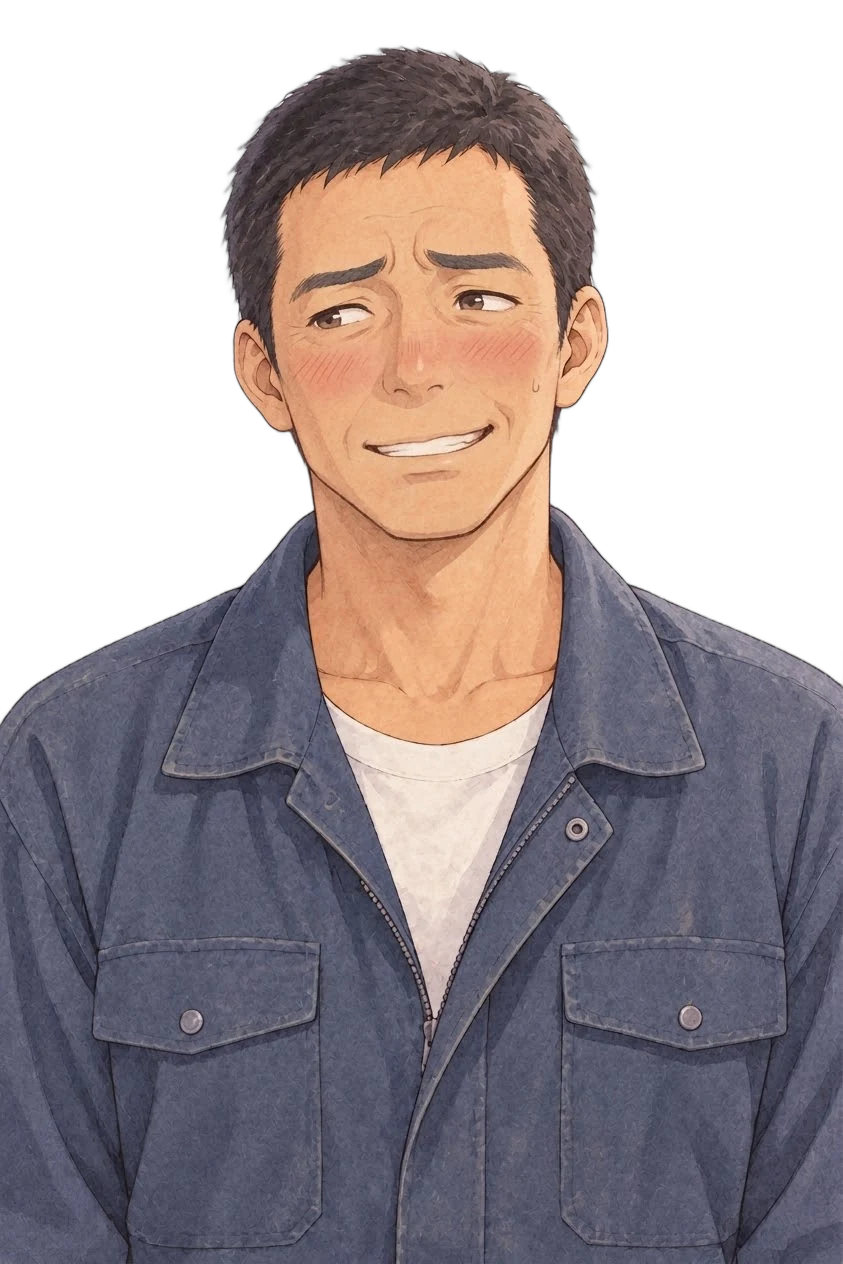
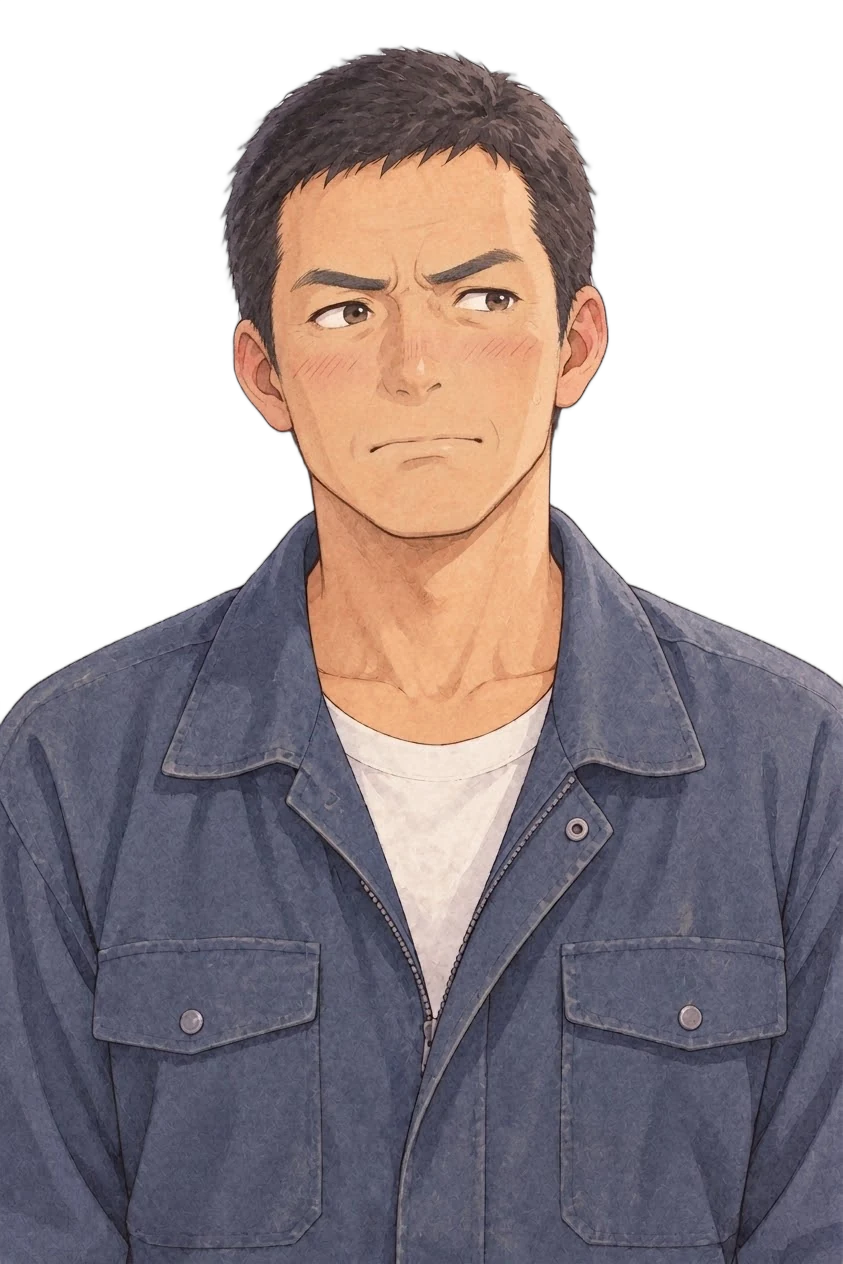
ゆうま・写しのゆうま・写しのひなのの表情違いを入れ、写しのきよしの照れを作り直した
Claude-Session: https://claude.ai/code/session_017E8gEEAXcva2Z7J4GYQkBJ

diff --git a/src/data/assets.ts b/src/data/assets.ts
@@ -1546,11 +1546,73 @@ export const ASSETS: AssetEntry[] = [
     '写しのきよし',
     'shy',
     '照れ',
-    'short cropped black hair, sun-tanned face, faded navy work jacket over a white undershirt',
-    'embarrassed, light blush on the cheeks, eyes looking aside, a small awkward smile',
+    'short cropped black hair, sun-tanned face, stern brows, faded navy work jacket over a white undershirt',
+    'gruffly hiding his embarrassment: face turned slightly away and eyes looking off to the side, mouth pressed into a stubborn straight line, brows slightly drawn together as if annoyed, no smile and no teeth showing. Only a faint blush on the cheeks and reddened ear tips give away that he is embarrassed. A quiet, awkward middle-aged man who is bad at showing his feelings.',
     '通常',
-    'M2 の 1-2 の写し（昭和63年の夏）。ノイズとセピアの加工はゲームの側でかける',
+    'M2 の 1-2 の写し（昭和63年の夏）。ノイズとセピアの加工はゲームの側でかける。2026-10-19 に作り直した（最初の照れは歯を見せて大きく赤くなり、口数の少ない頑固な人に合わなかった）',
   ),
+  // 1-1 の人たちの表情違い（2026-10-19。docs/ART.md の 6-7 の Gemini の 1〜3）
+  ...(
+    [
+      ['normal', '通常', 'relaxed and a little sleepy, droopy half-lidded eyes, mouth closed in a faint lazy smile'],
+      ['thinking', '考える', 'thoughtful, eyes looking up and aside, mouth slightly pursed'],
+      ['wry', '苦笑い', 'a wry, strained smile, one corner of the mouth raised, eyebrows slightly troubled'],
+      ['surprised', '驚き', 'surprised, eyes wide open, mouth slightly open'],
+      ['teary', '泣き笑い', 'smiling through tears, eyes wet and slightly narrowed, a trembling smile'],
+      ['lonely', 'さみしげ', 'quietly lonely, a faint sad smile, eyes looking down'],
+      ['serious', '真剣', 'serious and focused, mouth firmly closed, brows set, eyes steady and determined'],
+    ] as const
+  ).map(
+    ([face, title, expression]): AssetEntry => ({
+      ...geminiFace(
+        'yuma',
+        'ゆうま',
+        face,
+        title,
+        'light ash-brown hair tied back in a small low ponytail, droopy eyes, a small beauty mark under his left eye, a small silver stud earring, vertically striped convenience store shirt and a navy apron with a blank name tag',
+        expression,
+        '笑顔',
+        '1-1 の持ち主',
+      ),
+      acquiredAt: '2026-10-19',
+    }),
+  ),
+  ...(
+    [
+      ['normal', '通常', 'relaxed and natural, mouth closed'],
+      ['shy', '照れ', 'embarrassed, light blush on the cheeks, eyes looking aside, a small awkward smile'],
+      ['pout', 'ふくれ', 'sulking, cheeks puffed, frowning a little, eyes looking aside'],
+      ['surprised', '驚き', 'surprised, eyes wide open, mouth slightly open'],
+      ['angry', '怒り', 'an irritated little boy snapping at someone, brows sharply drawn together, mouth open as if shouting, cheeks slightly flushed'],
+    ] as const
+  ).map(
+    ([face, title, expression]): AssetEntry => ({
+      ...geminiFace(
+        'past_yuma',
+        '写しのゆうま',
+        face,
+        title,
+        'short black hair, droopy eyes, a small beauty mark under his left eye, navy striped summer yukata, childlike proportions',
+        expression,
+        '笑顔',
+        '1-1 の写し。ノイズとセピアの加工はゲームの側でかける',
+      ),
+      acquiredAt: '2026-10-19',
+    }),
+  ),
+  {
+    ...geminiFace(
+      'past_hinano',
+      '写しのひなの',
+      'cry',
+      '泣き',
+      'short dark hair in two small pigtails with pink flower hair ties, pale pink yukata with a morning glory pattern and a yellow obi, childlike proportions',
+      'crying like a hurt little child, tears running down her cheeks, eyes squeezed half shut, mouth open and trembling, brows drawn up in sadness',
+      '笑顔',
+      '1-1 の写し。ノイズとセピアの加工はゲームの側でかける',
+    ),
+    acquiredAt: '2026-10-19',
+  },
   // りくの口パクの元の絵（2026-10-11。docs/ART.md の 5-4）。表情ごとに、口だけ開けた絵。会話には出さず、口のまわりだけ切り抜く
   ...(['normal', 'proud', 'serious', 'sad', 'smirk', 'flustered'] as const).map(
     (f): AssetEntry => ({

diff --git a/src/data/dialogue.ts b/src/data/dialogue.ts
@@ -161,10 +161,14 @@ export const CAST: Record<string, CastMember> = {
     height: 440,
     voice: { pitch: 520, wave: 'triangle' },
   },
-  // 1-1 の人たち（2026-10-19）。ゆうまと写しの2人は笑顔の絵だけある（ほかの表情は、絵が届くまで笑顔で代わりに出す）。写しはセピアをかける
+  // 1-1 の人たち（2026-10-19）。ゆうまと写しの2人は、台本で使う表情がそろった。写しはセピアをかける
   ゆうま: {
     portrait: 'portrait.yuma',
-    ...young(['笑顔', '通常', '考える', '泣き笑い', '苦笑い', '驚き', '真剣', 'さみしげ'], { 笑顔: 'smile' }, '笑顔'),
+    ...young(
+      ['笑顔', '通常', '考える', '泣き笑い', '苦笑い', '驚き', '真剣', 'さみしげ'],
+      { 笑顔: 'smile', 通常: 'normal', 考える: 'thinking', 泣き笑い: 'teary', 苦笑い: 'wry', 驚き: 'surprised', 真剣: 'serious', さみしげ: 'lonely' },
+      '通常',
+    ),
     color: 0x8a7a5a,
     height: 450,
     voice: { pitch: 290, wave: 'square' },
@@ -175,7 +179,7 @@ export const CAST: Record<string, CastMember> = {
   ひなの: { faces: names('通常', '驚き', '困り', 'むっ', 'さみしげ', '泣き笑い', '微笑み'), firstFace: '通常', color: 0xc08aa0, voice: { pitch: 620, wave: 'triangle' } },
   写しのゆうま: {
     portrait: 'portrait.past_yuma',
-    ...young(['笑顔', 'ふくれ', '怒り', '驚き', '通常', '照れ'], { 笑顔: 'smile' }, '笑顔'),
+    ...young(['笑顔', 'ふくれ', '怒り', '驚き', '通常', '照れ'], { 笑顔: 'smile', ふくれ: 'pout', 怒り: 'angry', 驚き: 'surprised', 通常: 'normal', 照れ: 'shy' }, '笑顔'),
     color: 0x9aa0b0,
     height: YOUNG_HEIGHT,
     voice: { pitch: 540, wave: 'square' },
@@ -183,7 +187,7 @@ export const CAST: Record<string, CastMember> = {
   },
   写しのひなの: {
     portrait: 'portrait.past_hinano',
-    ...young(['笑顔', '泣き'], { 笑顔: 'smile' }, '笑顔'),
+    ...young(['笑顔', '泣き'], { 笑顔: 'smile', 泣き: 'cry' }, '笑顔'),
     color: 0xb0a0b8,
     height: YOUNG_HEIGHT,
     voice: { pitch: 700, wave: 'square' },

diff --git a/docs/ART.md b/docs/ART.md
@@ -815,13 +815,13 @@ Character: Shigeru, a 45-year-old Japanese man who runs a small old-fashioned el
 
 | 順 | 人 | 足りない表情（多い順） |
 | --- | --- | --- |
-| 1 | ゆうま | 通常（6。だるそう）・考える（8）・苦笑い・驚き・泣き笑い・さみしげ・真剣（基本の1枚は笑顔） |
-| 2 | 写しのひなの | 泣き（5） |
-| 3 | 写しのゆうま | 驚き・怒り・ふくれ・照れ・通常 |
+| 1 | ゆうま | 通常（6。だるそう）・考える（8）・苦笑い・驚き・泣き笑い・さみしげ・真剣（基本の1枚は笑顔）（済。2026-10-19） |
+| 2 | 写しのひなの | 泣き（5）（済。2026-10-19） |
+| 3 | 写しのゆうま | 驚き・怒り・ふくれ・照れ・通常（済。2026-10-19） |
 | 4 | ひなの | むっ・驚き・泣き笑い・困り・さみしげ・微笑み |
 | 5 | しげる | 驚き・さみしげ・考える・苦笑い・通常 |
 | 6 | 子どもの3人（プロローグ） | 5-6 の Gemini の 1〜3 |
-| 7 | 写しのきよし | 照れの作り直し（2026-10-19。5-3 の 14 の表の下の文。1-2 の山場の2行で使う） |
+| 7 | 写しのきよし | 照れの作り直し（2026-10-19。5-3 の 14 の表の下の文。1-2 の山場の2行で使う）（済。2026-10-19） |
 
 ### 7. 1枚絵：親方の背中（2-1-8）
 
